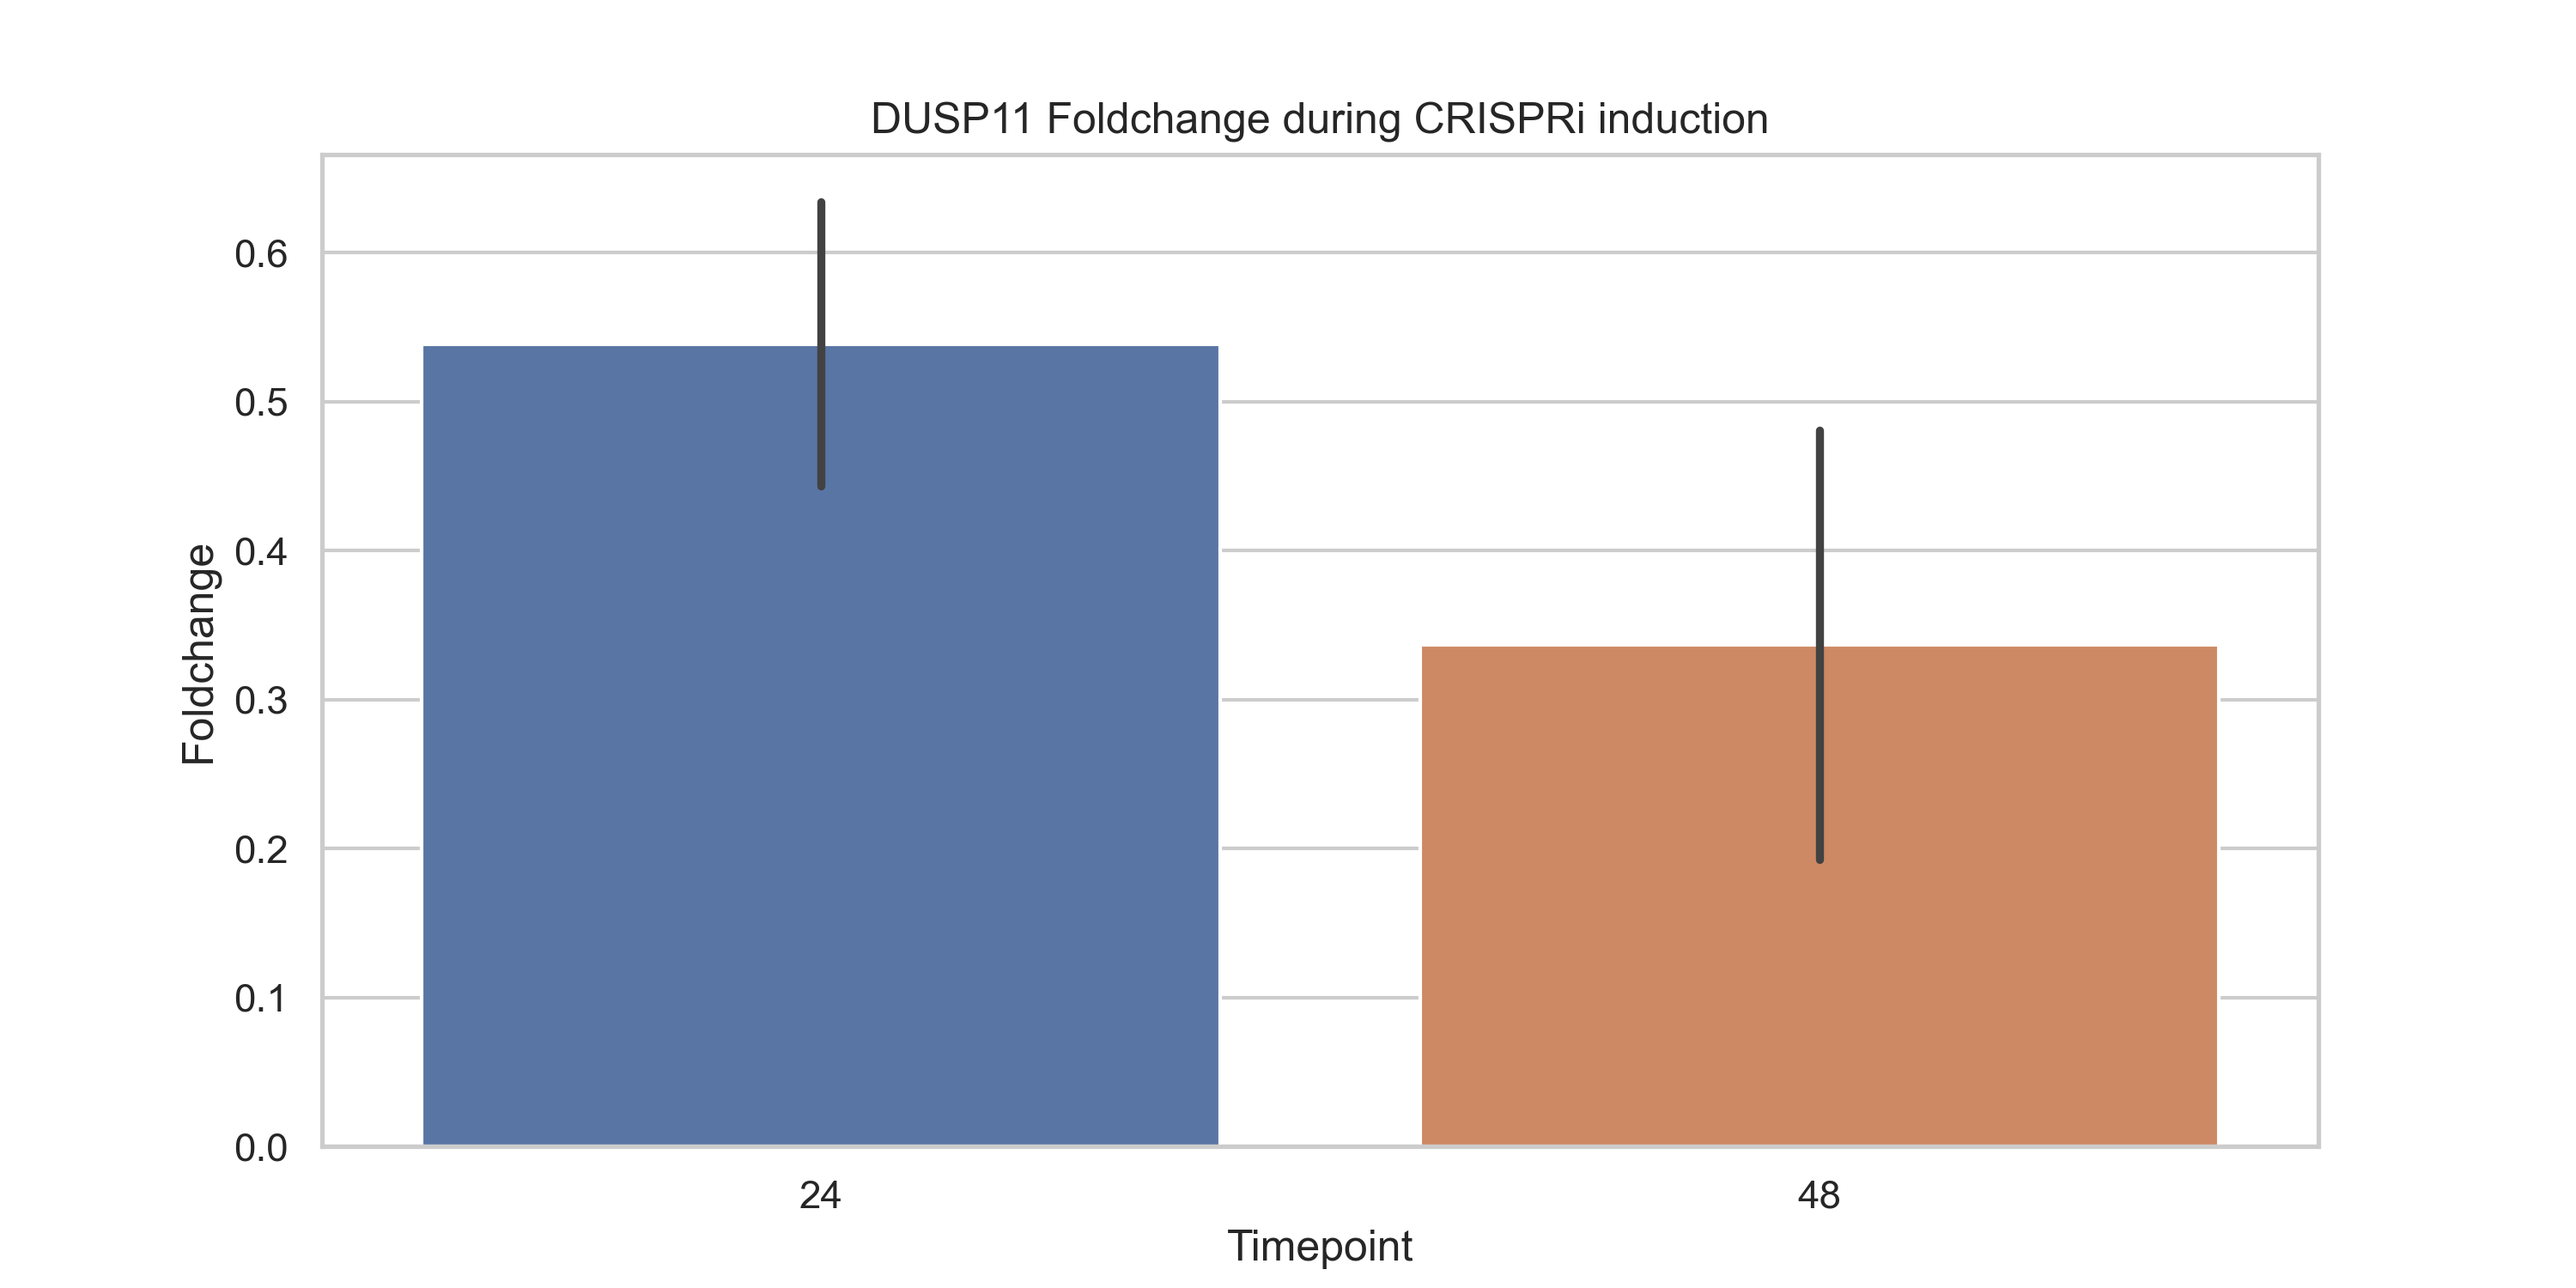
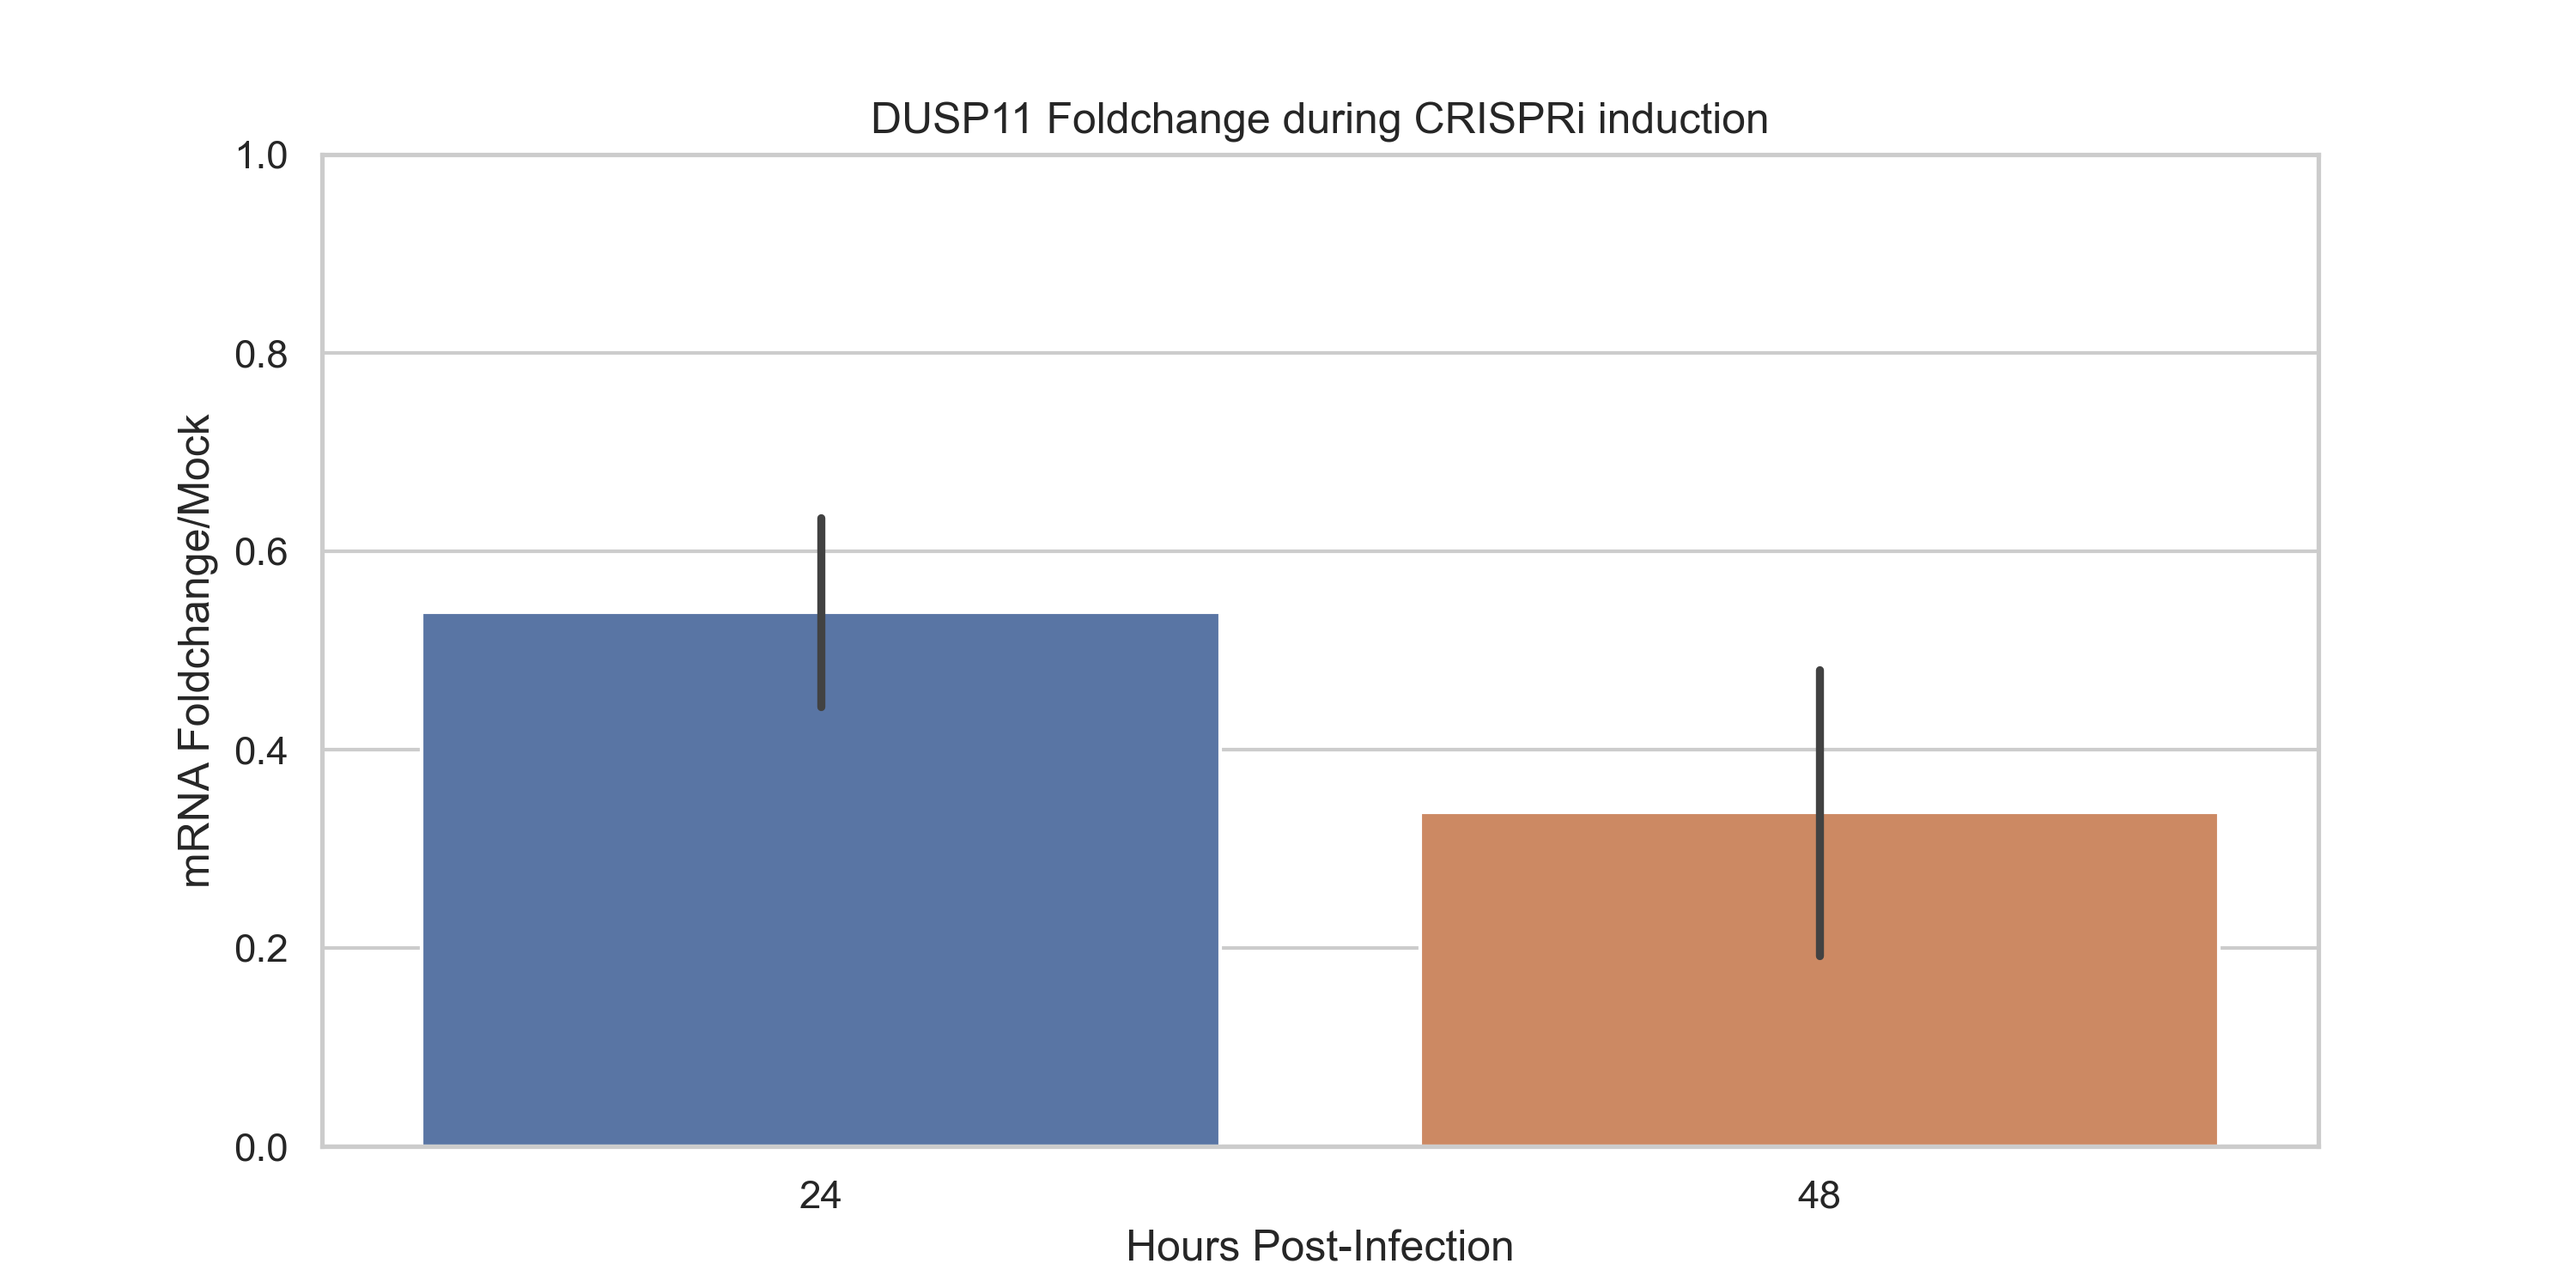
Update TN031.9_redo.py: Sort rows and plot foldchange

diff --git a/TN031/TN031.9_redo.py b/TN031/TN031.9_redo.py
@@ -23,6 +23,7 @@ def import_file(filename: str) -> pd.DataFrame:
 
 data = import_file("TN031_9_redo.xlsx")
 
+
 # Sort rows based on user defined categories in a given column into new dataframes
 def sort_rows(df: pd.DataFrame, categories: list, colname: str) -> tuple[pd.DataFrame]:
     """Sort user defined rows into different user supplied categories and return tuple of dataframes."""
@@ -37,6 +38,7 @@ def sort_rows(df: pd.DataFrame, categories: list, colname: str) -> tuple[pd.Data
                 )
                 break
     return tuple(dfs.values())
+
 
 # Sort into 24 and 48 hour timepoints
 t24, t48 = sort_rows(data, ["24", "48"], "Sample Name")
@@ -79,8 +81,9 @@ def plot_foldchange(df: pd.DataFrame, title: str) -> plt:
     plt.figure(figsize=(10, 5))
     ax = sns.barplot(data=df, errorbar="sd")
     ax.set_title(title)
-    ax.set_xlabel("Timepoint")
-    ax.set_ylabel("Foldchange")
+    ax.set_xlabel("Hours Post-Infection")
+    ax.set_ylabel("mRNA Foldchange/Mock")
+    ax.set_ylim(0, 1)
     plt.savefig(f"TN031.9 redo {title}.png", dpi=300)
 
 
